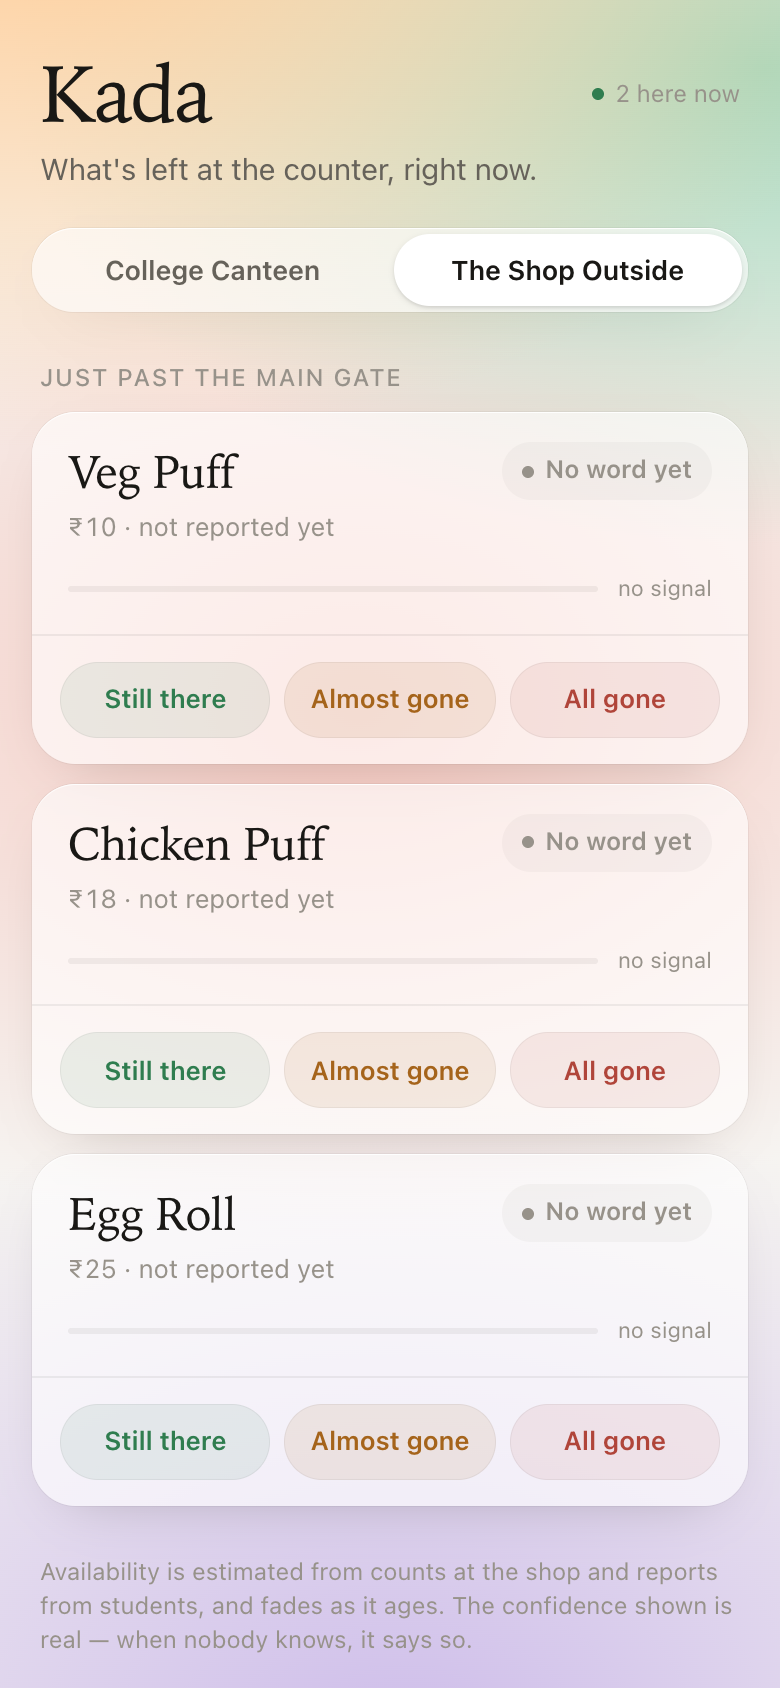
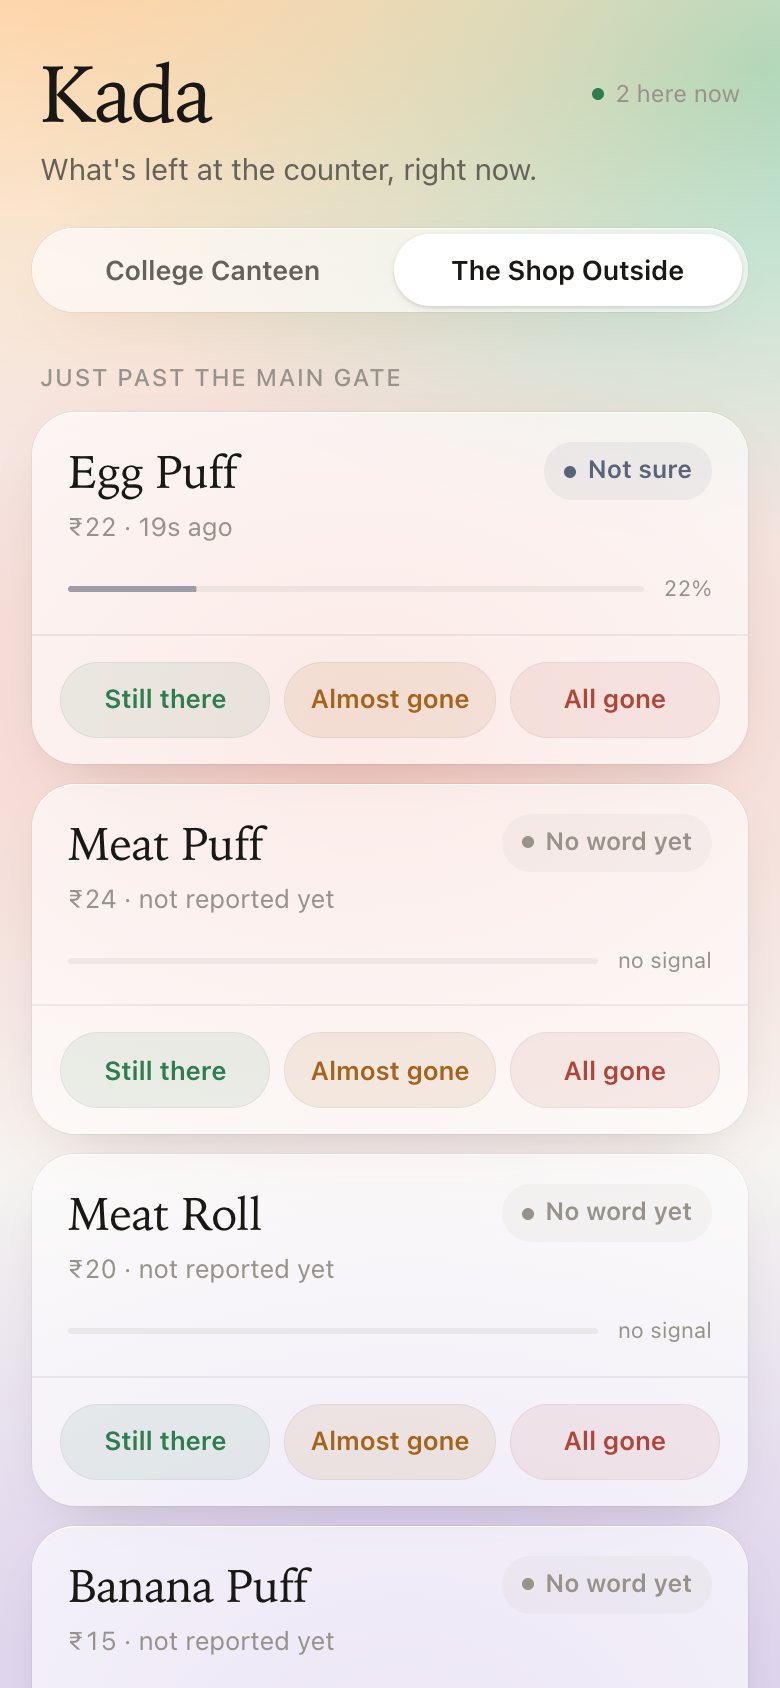
docs: refresh screenshots and align the outside menu

diff --git a/README.md b/README.md
@@ -134,12 +134,12 @@ For Software:
 
 ![The board](assets/board.png)
 *The board. Each item shows the shop's own count where one is fresh, the state it implies, and how
-confident the model currently is — 75% for a puff counted a minute ago, already falling.*
+confident the model currently is — and that confidence is already falling as you read it.*
 
 ![Honest uncertainty](assets/uncertainty.png)
-*One student reporting "all gone" does not flip the board. It moves to **Not sure** at 21%, because
-a single unverified voice is not evidence. Two items below it say **No word yet** rather than
-guessing — the interface is not allowed to overstate what it knows.*
+*One student reporting "all gone" does not flip the board. It moves to **Not sure** at just over
+20%, because a single unverified voice is not evidence. The items below it say **No word yet**
+rather than guessing — the interface is not allowed to overstate what it knows.*
 
 ![The counter console](assets/counter.png)
 *What the shop sees. Oversized steppers usable with one thumb in about three seconds, and beneath
